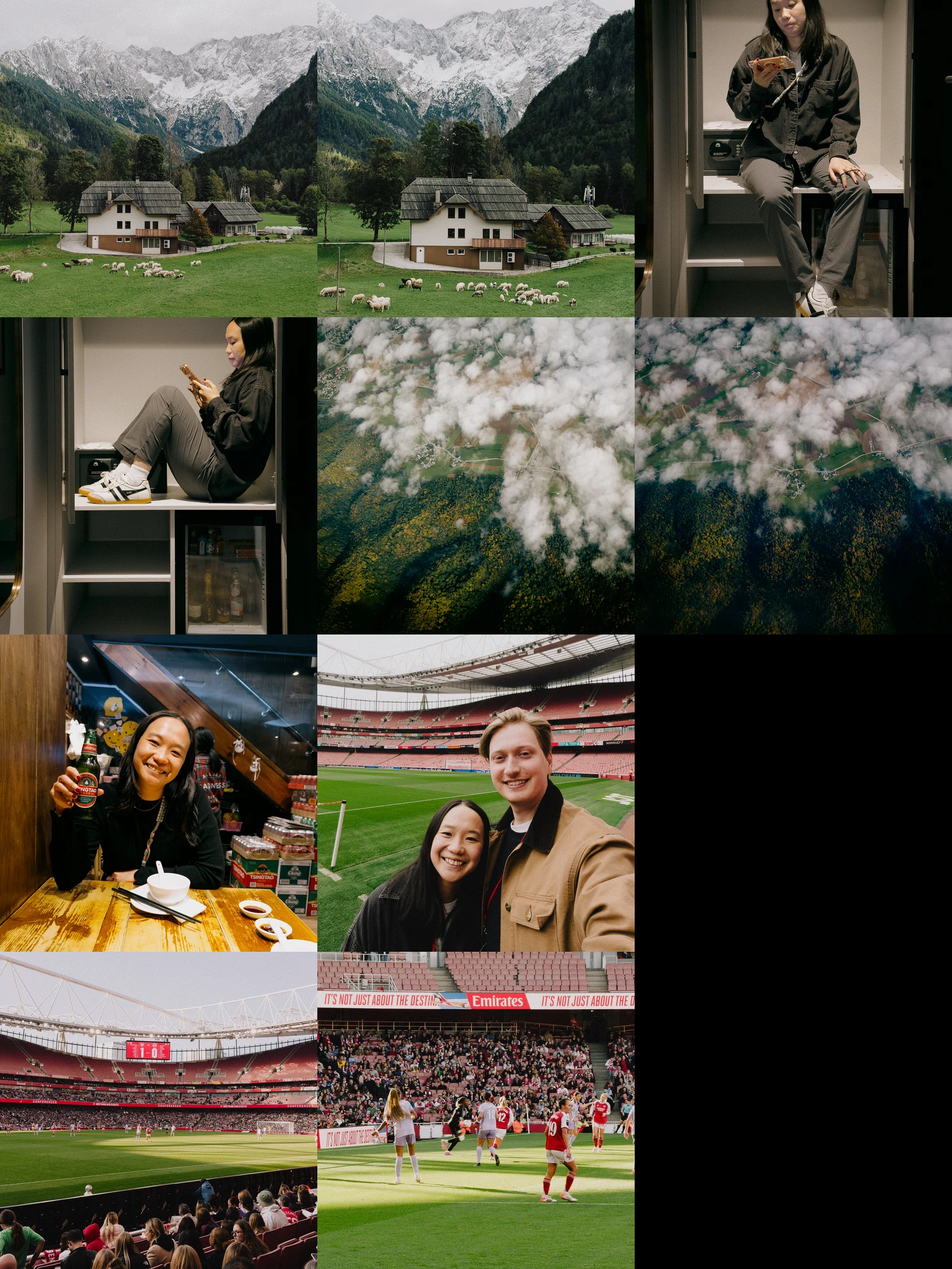
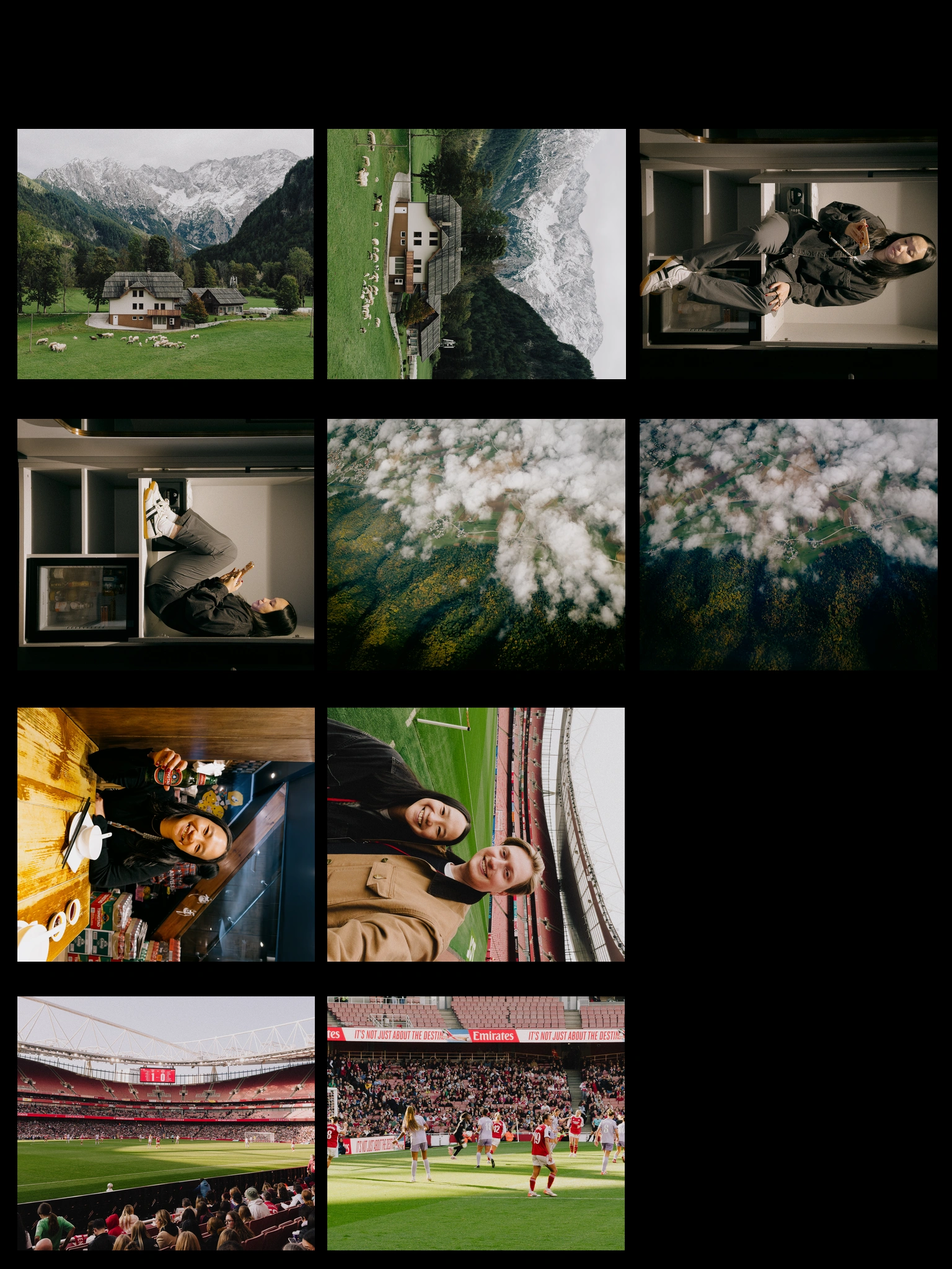
fix rotation

diff --git a/src/hooks/useStore.js b/src/hooks/useStore.js
@@ -81,7 +81,7 @@ const useStore = create((set, get) => ({
         {
             id: 0,
             category: 'Spring',
-            texture: '/sheets/summer_sheet.webp?v=2', // Using generated sheet for now
+            texture: '/sheets/summer_sheet.webp?v=5', // Using generated sheet for now
             photos: Array.from({ length: 10 }, (_, i) => ({
                 id: i,
                 title: `Spring Memory ${i + 1}`,
@@ -92,7 +92,7 @@ const useStore = create((set, get) => ({
         {
             id: 1,
             category: 'Summer',
-            texture: '/sheets/summer_sheet.webp?v=2',
+            texture: '/sheets/summer_sheet.webp?v=5',
             photos: Array.from({ length: 10 }, (_, i) => ({
                 id: i,
                 title: `Summer Adventure ${i + 1}`,
@@ -103,7 +103,7 @@ const useStore = create((set, get) => ({
         {
             id: 2,
             category: 'Fall',
-            texture: '/sheets/summer_sheet.webp?v=2', // Using generated sheet for now
+            texture: '/sheets/summer_sheet.webp?v=5', // Using generated sheet for now
             photos: Array.from({ length: 10 }, (_, i) => ({
                 id: i,
                 title: `Autumn Moment ${i + 1}`,

diff --git a/generate_sheet_aligned.py b/generate_sheet_aligned.py
@@ -1,0 +1,115 @@
+
+import os
+from PIL import Image
+
+# Configuration
+input_dir = 'photos/Test'
+output_dir = 'public/sheets'
+output_filename = 'summer_sheet.webp'
+
+# Target Dimensions
+target_w = 1536
+target_h = 2048
+ref_w = 1024
+ref_h = 1024
+
+scale_x = target_w / ref_w
+scale_y = target_h / ref_h
+
+# Defined Bounding Boxes in 1024x1024 reference space (Left, Top, Right, Bottom)
+# x-ranges: [23-334], [356-669], [692-1005]
+# y-ranges: [108-302], [342-537], [575-772], [808-1005]
+
+cols_x = [(23, 334), (356, 669), (692, 1005)]
+rows_y = [(108, 302), (342, 537), (575, 772), (808, 1005)]
+
+# Map linear index to (row, col)
+# 0,1,2 -> Row 0, Cols 0,1,2
+# 3,4,5 -> Row 1, Cols 0,1,2
+# 6,7   -> Row 2, Cols 0,1
+# 8,9   -> Row 3, Cols 0,1
+
+grid_mapping = [
+    (0,0), (0,1), (0,2),
+    (1,0), (1,1), (1,2),
+    (2,0), (2,1),
+    (3,0), (3,1)
+]
+
+# Ensure output directory exists
+os.makedirs(output_dir, exist_ok=True)
+
+# Get list of images
+image_files = sorted([f for f in os.listdir(input_dir) if f.lower().endswith(('.jpg', '.jpeg', '.png', '.webp'))])
+image_files = image_files[:10]
+
+print(f"Found {len(image_files)} images.")
+
+# Create blank canvas (black background)
+sheet = Image.new('RGB', (target_w, target_h), color=(0, 0, 0))
+
+for i, filename in enumerate(image_files):
+    if i >= len(grid_mapping): break
+    
+    r_idx, c_idx = grid_mapping[i]
+    
+    # Get reference coordinates
+    x1_ref, x2_ref = cols_x[c_idx]
+    y1_ref, y2_ref = rows_y[r_idx]
+    
+    # Scale to target coordinates
+    # Add a small bleed (padding) to ensure valid coverage under the frame
+    bleed_ref = 4 
+    
+    x1 = int((x1_ref - bleed_ref) * scale_x)
+    x2 = int((x2_ref + bleed_ref) * scale_x)
+    y1 = int((y1_ref - bleed_ref) * scale_y)
+    y2 = int((y2_ref + bleed_ref) * scale_y)
+    
+    target_width = x2 - x1
+    target_height = y2 - y1
+    
+    img_path = os.path.join(input_dir, filename)
+    try:
+        img = Image.open(img_path)
+        
+        # Auto-rotate portrait photos to fit landscape slots
+        # User requested flip 180 from previous (so 90 degrees CW)
+        if img.height > img.width:
+            print(f"Rotating {filename} 90 degrees CW")
+            img = img.rotate(-90, expand=True)
+        
+        # Resize/Crop logic
+        img_ratio = img.width / img.height
+        target_ratio = target_width / target_height
+        
+        if img_ratio > target_ratio:
+            # Image is wider
+            new_height = target_height
+            new_width = int(new_height * img_ratio)
+        else:
+            # Image is taller
+            new_width = target_width
+            new_height = int(new_width / img_ratio)
+            
+        img = img.resize((new_width, new_height), Image.Resampling.LANCZOS)
+        
+        # Center Crop
+        left = (new_width - target_width) / 2
+        top = (new_height - target_height) / 2
+        right = (new_width + target_width) / 2
+        bottom = (new_height + target_height) / 2
+        
+        img = img.crop((left, top, right, bottom))
+        
+        # Paste
+        sheet.paste(img, (x1, y1))
+        print(f"Placed {filename} at Row {r_idx}, Col {c_idx} ({x1},{y1})")
+        
+    except Exception as e:
+        print(f"Error processing {filename}: {e}")
+
+# Save
+output_path = os.path.join(output_dir, output_filename)
+sheet.save(output_path, 'WEBP', quality=95)
+print(f"Saved aligned contact sheet to {output_path}")

diff --git a/find_holes.py b/find_holes.py
@@ -1,0 +1,54 @@
+
+from PIL import Image
+import numpy as np
+
+img = Image.open('public/textures/contact_sheet_frame.png').convert('L') # Grayscale
+data = np.array(img)
+h, w = data.shape
+
+print(f"Image Shape: {w}x{h}")
+
+threshold = 230
+binary = data > threshold
+
+# Find rows and cols that have "holes"
+# Sum along axes
+row_sum = np.sum(binary, axis=1) # Shape (h,)
+col_sum = np.sum(binary, axis=0) # Shape (w,)
+
+# Find indices where sum > 0 (meaning there is a hole in this row/col)
+# But this aggregates everything. We want to identify the specific start/end of each cell.
+
+# Let's scan a specific row (e.g. through the middle of the first row of cells) 
+# and specific col to find boundaries.
+# Based on previous analysis, y=128 intersects the first row of cells.
+# x=170 intersects first col.
+
+def find_segments(line_data):
+    # Returns list of (start, end) tuples
+    segments = []
+    in_segment = False
+    start = 0
+    for i, val in enumerate(line_data):
+        if val and not in_segment:
+            start = i
+            in_segment = True
+        elif not val and in_segment:
+            segments.append((start, i))
+            in_segment = False
+    if in_segment:
+        segments.append((start, len(line_data)))
+    return segments
+
+# Scan horizontal line at Y=128 (Row 0)
+row0_segments = find_segments(binary[128, :])
+print(f"Row 0 (Y=128) X-Segments: {row0_segments}")
+
+# Scan vertical line at X=170 (Col 0)
+col0_segments = find_segments(binary[:, 170])
+print(f"Col 0 (X=170) Y-Segments: {col0_segments}")
+
+# Also check if margins are different for other rows/cols
+# Scan Row 1 (Y=384)
+row1_segments = find_segments(binary[384, :])
+print(f"Row 1 (Y=384) X-Segments: {row1_segments}")

diff --git a/find_holes_y.py b/find_holes_y.py
@@ -1,0 +1,31 @@
+
+from PIL import Image
+import numpy as np
+
+img = Image.open('public/textures/contact_sheet_frame.png').convert('L')
+data = np.array(img)
+threshold = 230
+binary = data > threshold
+
+def find_segments(line_data):
+    segments = []
+    in_segment = False
+    start = 0
+    for i, val in enumerate(line_data):
+        if val and not in_segment:
+            start = i
+            in_segment = True
+        elif not val and in_segment:
+            if (i - start) > 50: # Filter small noise
+                segments.append((start, i))
+            in_segment = False
+    if in_segment and (len(line_data) - start) > 50:
+        segments.append((start, len(line_data)))
+    return segments
+
+# X-Centers based on previous run
+x_centers = [178, 512, 848]
+
+for i, x in enumerate(x_centers):
+    segs = find_segments(binary[:, x])
+    print(f"Col {i} (X={x}) Y-Segments: {segs}")
